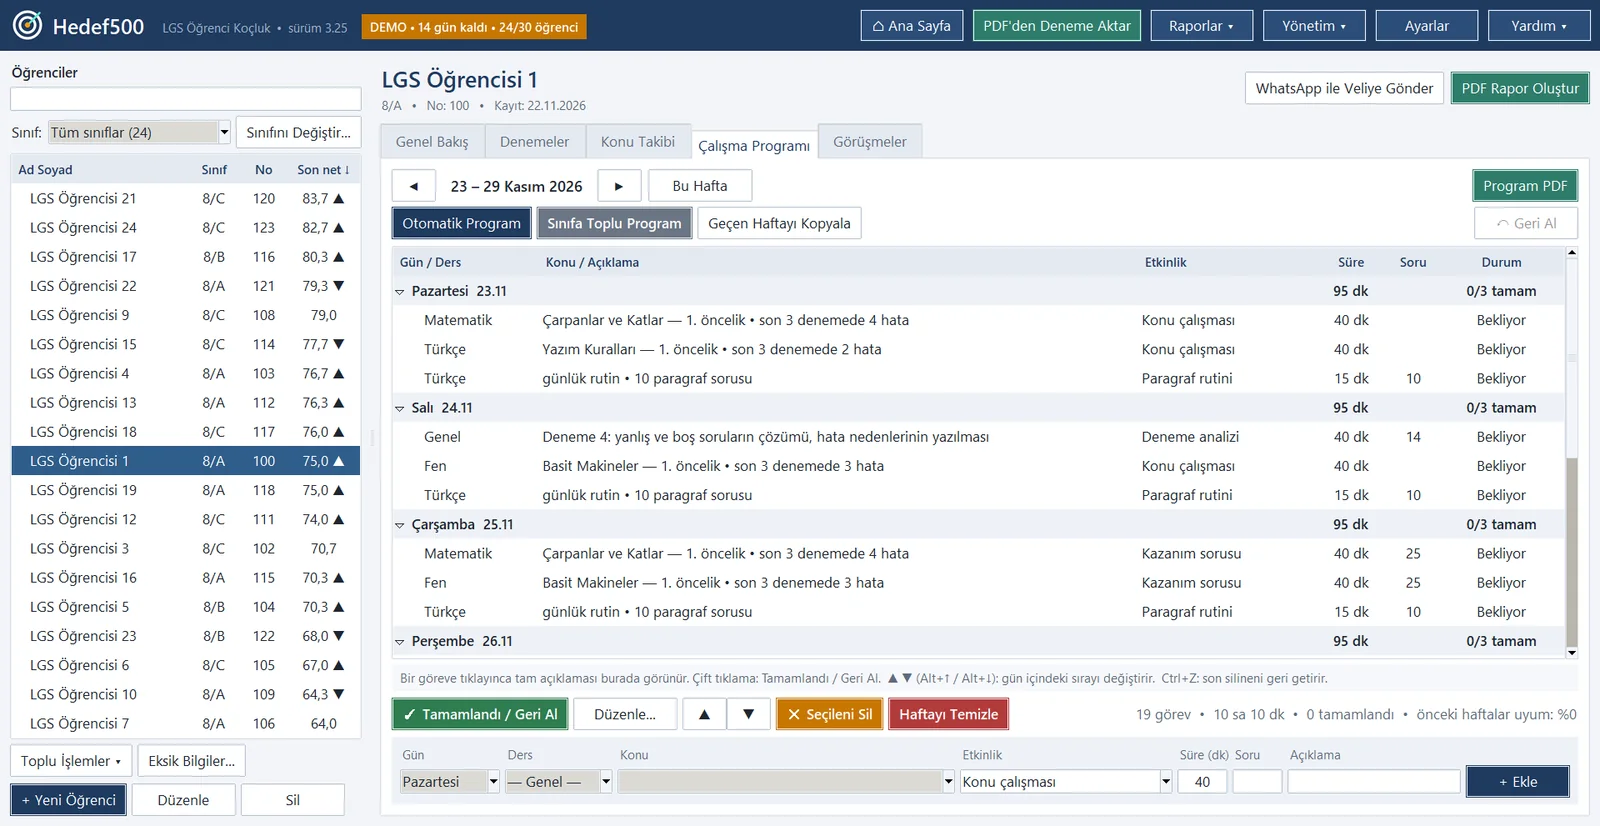
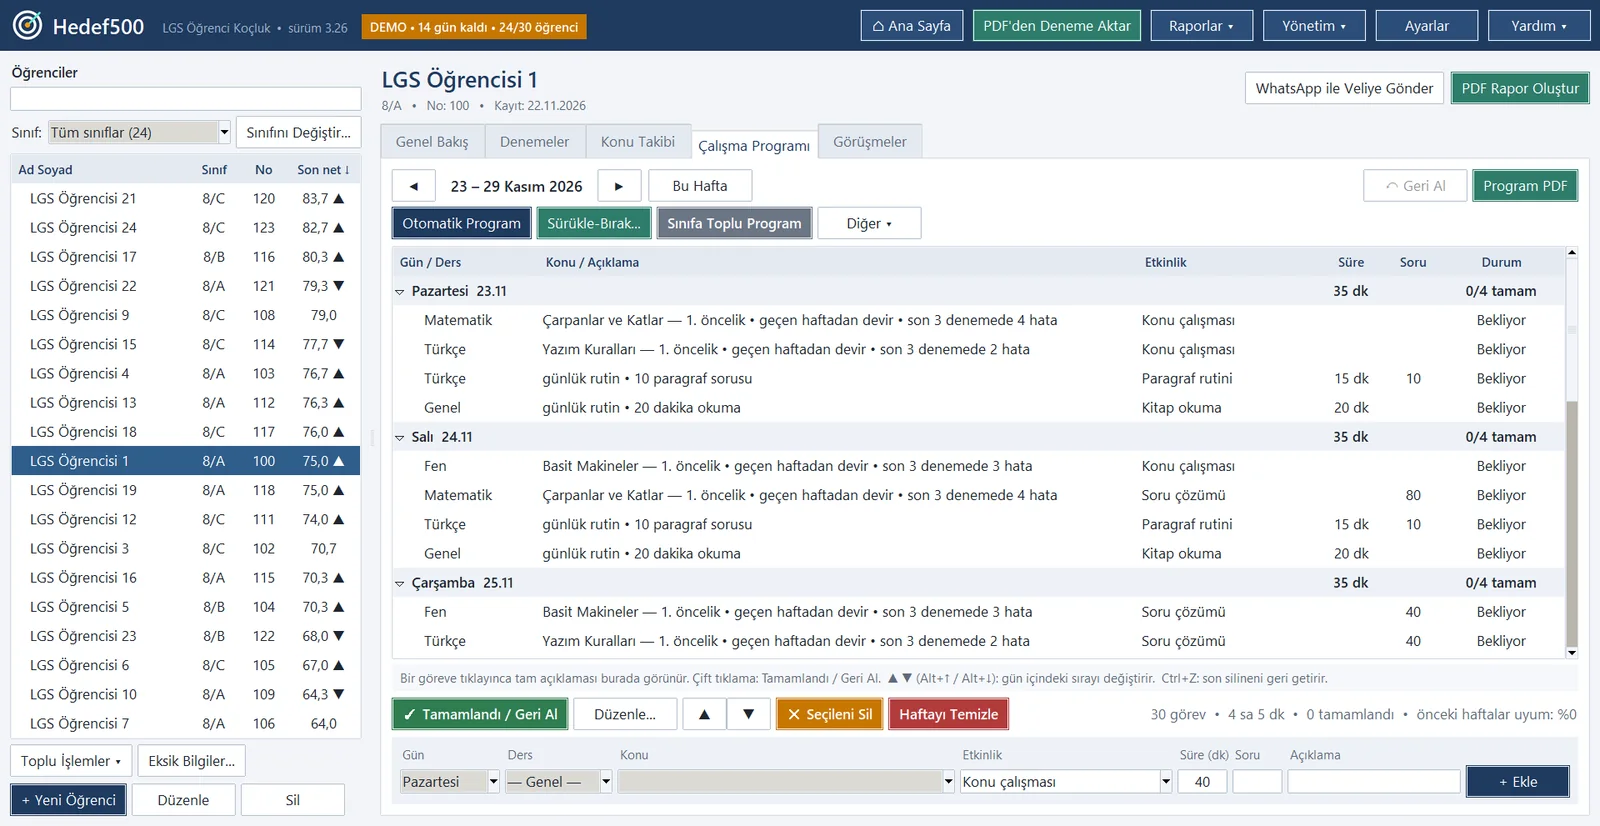
3.26: soru çözümü, seviyeye göre soru, video desteği, sürükle-bırak ve hafta başlangıcı; görseller yenilendi

diff --git a/index.html b/index.html
@@ -246,8 +246,8 @@
             <div class="sahne-program">
               <div class="gun"><b>Pzt</b><span class="kart tur" style="--i:0">Türkçe<small>Sözcükte Anlam</small></span><span class="kart mat" style="--i:5">Mat.<small>Çarpanlar ve Katlar</small></span></div>
               <div class="gun"><b>Sal</b><span class="kart fen" style="--i:1">Fen<small>Mevsimler</small></span><span class="kart tur" style="--i:6">Paragraf<small>20 soru</small></span></div>
-              <div class="gun"><b>Çar</b><span class="kart mat" style="--i:2">Mat.<small>Kazanım sorusu</small></span><span class="kart ink" style="--i:7">İnkılap<small>Kahraman Doğuyor</small></span></div>
-              <div class="gun"><b>Per</b><span class="kart tur" style="--i:3">Türkçe<small>Yazım Kuralları</small></span><span class="kart fen" style="--i:8">Fen<small>Yeni nesil</small></span></div>
+              <div class="gun"><b>Çar</b><span class="kart mat" style="--i:2">Mat.<small>Soru çözümü</small></span><span class="kart ink" style="--i:7">İnkılap<small>Kahraman Doğuyor</small></span></div>
+              <div class="gun"><b>Per</b><span class="kart tur" style="--i:3">Türkçe<small>Yazım Kuralları</small></span><span class="kart fen" style="--i:8">Fen<small>Soru çözümü</small></span></div>
               <div class="gun"><b>Cum</b><span class="kart ing" style="--i:4">İng.<small>Friendship</small></span><span class="kart mat" style="--i:9">Mat.<small>Üslü İfadeler</small></span></div>
               <div class="rutin" style="--i:10"><b>Her gün</b><span>Paragraf 20 soru</span><span>Kitap 30 dk</span><span>Kelime 15</span></div>
             </div>
@@ -308,8 +308,8 @@
         <div class="adim-metin">
           <span class="adim-no" aria-hidden="true">3</span>
           <h3>Haftalık programı hazırlayın</h3>
-          <p>Program, öğrencinin öncelikli konularından o haftanın çalışma planını çıkarır: konu çalışması, kazanım soruları, deneme analizi ve günlük paragraf rutini. Tek öğrenciye ya da bütün sınıfa bir kerede hazırlanır; dilediğiniz görevi elle değiştirir, gün içindeki sırasını belirlersiniz. Yanlışlıkla sildiğinizi tek tuşla geri alırsınız.</p>
-          <p class="adim-ayrinti">Yatay haftalık çizelge her dersi her gün aynı satırda, tek sayfada gösterir. Öğrenci tamamladıkça işaretlenir; programa uyum oranı raporlara yansır.</p>
+          <p>Program, öğrencinin öncelikli konularından o haftanın çalışma planını çıkarır: konu çalışması, soru çözümü, deneme analizi ve günlük rutinler. Soru sayısı öğrencinin her dersteki seviyesine göre ayarlanır; neti düşük derslerde video konu anlatımı ve video soru çözümü eklenir. Tek öğrenciye ya da bütün sınıfa bir kerede hazırlanır.</p>
+          <p class="adim-ayrinti">İsterseniz programı sürükle-bırakla kendiniz kurarsınız: önerilen konuları havuzdan günlere taşırsınız. Haftanın hangi gün başlayacağını öğrenciye göre seçersiniz. Yatay haftalık çizelge her dersi her gün aynı satırda, tek sayfada gösterir; programa uyum oranı raporlara yansır.</p>
         </div>
         <figure class="pencere adim-gorsel"><img src="gorseller/program.webp" width="1600" height="826" loading="lazy" alt="Çalışma programı: günlere göre ders, konu, etkinlik, süre ve durum"></figure>
       </li>
